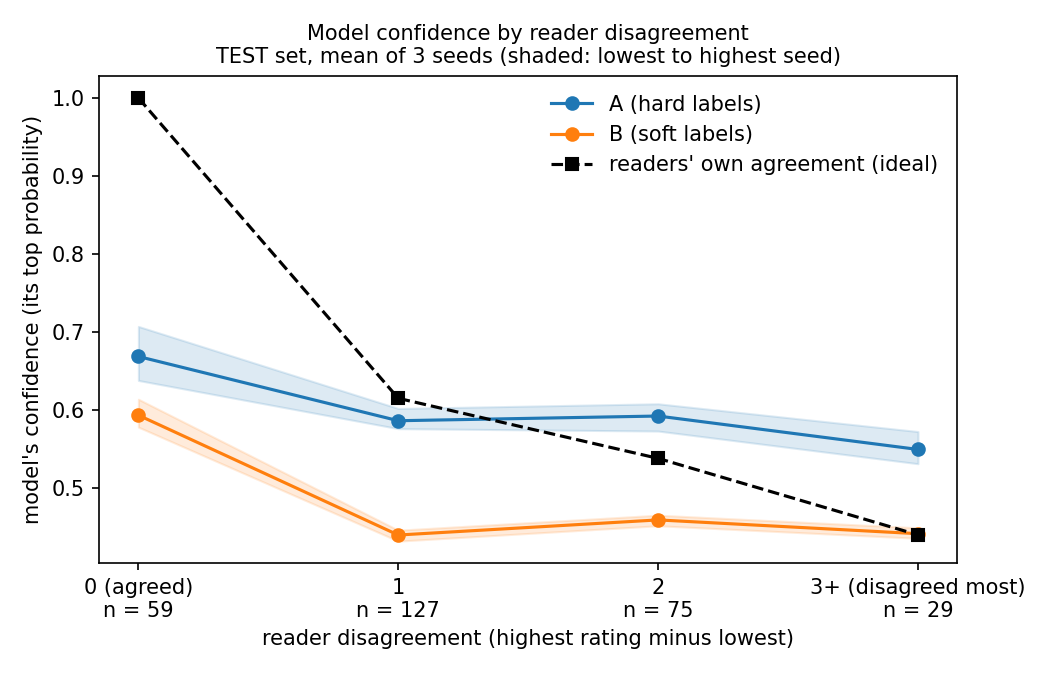
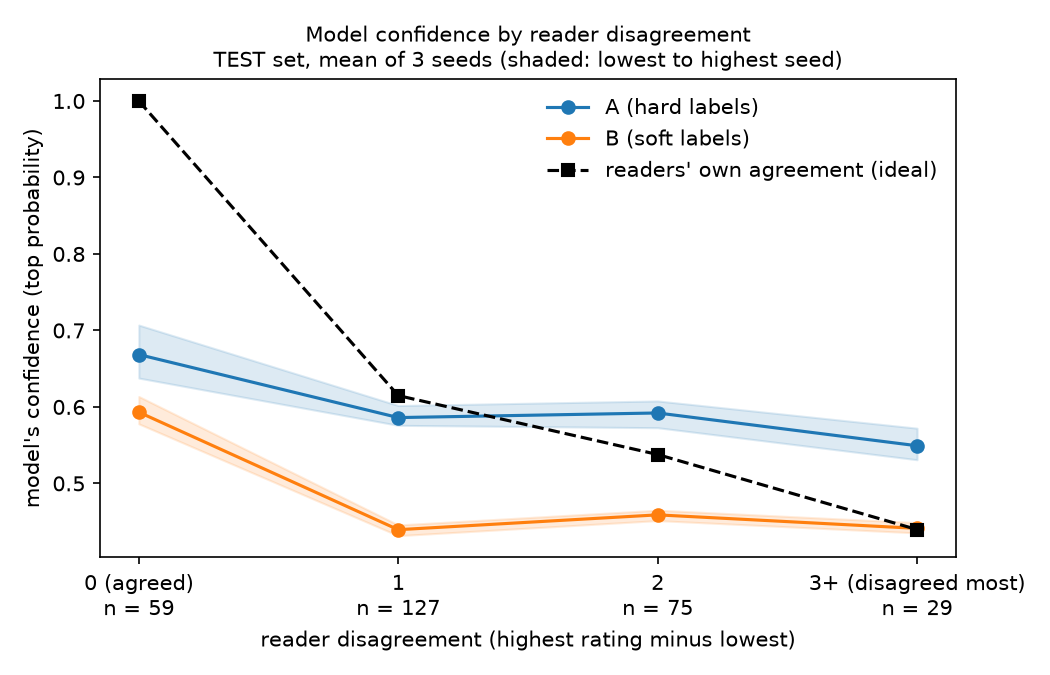
Regeneration of graphs

diff --git a/Model/folds/score_test_fold.py b/Model/folds/score_test_fold.py
@@ -207,7 +207,7 @@ def main():
     counts = cbs[cbs["model"] == MODELS["hard"]]["nodules"].tolist()
     ax.set_xticks(SPREAD_GROUPS, [f"{n}\nn = {c}" for n, c in zip(SPREAD_NAMES, counts)])
     ax.set_xlabel("reader disagreement (highest rating minus lowest)")
-    ax.set_ylabel("model's confidence (its top probability)")
+    ax.set_ylabel("model's confidence (top probability)")
     ax.set_title("Model confidence by reader disagreement\n"
                  "TEST fold 0, mean of the 4 cross-validation models (shaded: lowest to highest)", fontsize=10)
     ax.legend(frameon=False)

diff --git a/Model/no_folds/score_test_no_fold.py b/Model/no_folds/score_test_no_fold.py
@@ -163,7 +163,7 @@ def main():
     counts = cbs[cbs["model"] == MODELS["hard"]]["nodules"].tolist()
     ax.set_xticks(SPREAD_GROUPS, [f"{n}\nn = {c}" for n, c in zip(SPREAD_NAMES, counts)])
     ax.set_xlabel("reader disagreement (highest rating minus lowest)")
-    ax.set_ylabel("model's confidence (its top probability)")
+    ax.set_ylabel("model's confidence (top probability)")
     ax.set_title("Model confidence by reader disagreement\n"
                  "TEST set, mean of 3 seeds (shaded: lowest to highest seed)", fontsize=10)
     ax.legend(frameon=False)

diff --git a/Model/plots.py b/Model/plots.py
@@ -167,7 +167,7 @@ def _reliability_png(probs, hard, ece, title, path, min_n=10, counted="nodules")
     ax.set_xlim(0, 1)
     ax.set_ylim(0, 1.1)
     ax.set_yticks(np.linspace(0, 1, 6))
-    ax.set_xlabel("model's confidence (its top probability)", fontsize=9, color=INK_2)
+    ax.set_xlabel("model's confidence (top probability)", fontsize=9, color=INK_2)
     ax.set_ylabel("share it got right", fontsize=9, color=INK_2)
     fig.tight_layout()
     fig.savefig(path, dpi=150, facecolor=SURFACE)

diff --git a/pipeline/metrics.py b/pipeline/metrics.py
@@ -46,7 +46,7 @@ def p_suspicious(predicted_probabilities):
 def ece(probs, hard, n_bins=10):
     """Expected calibration error (ece), top-label version.
 
-    Bin nodules by the model's confidence (its top probability). In each bin
+    Bin nodules by the model's confidence (top probability). In each bin
     compare average confidence with how often the top class was right. ECE is
     the size-weighted average gap: 0 = says 70% and is right 70% of the time.
     """
